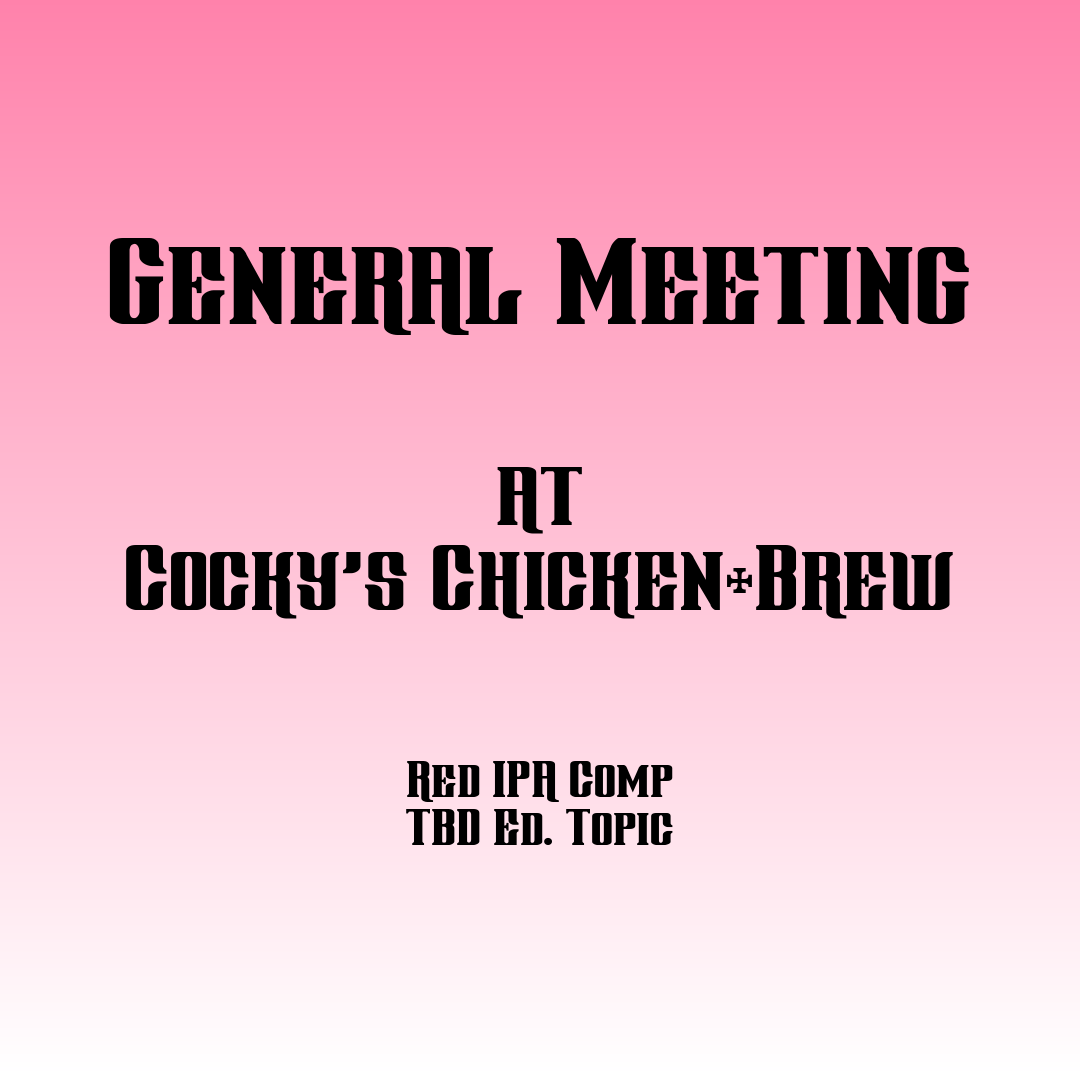
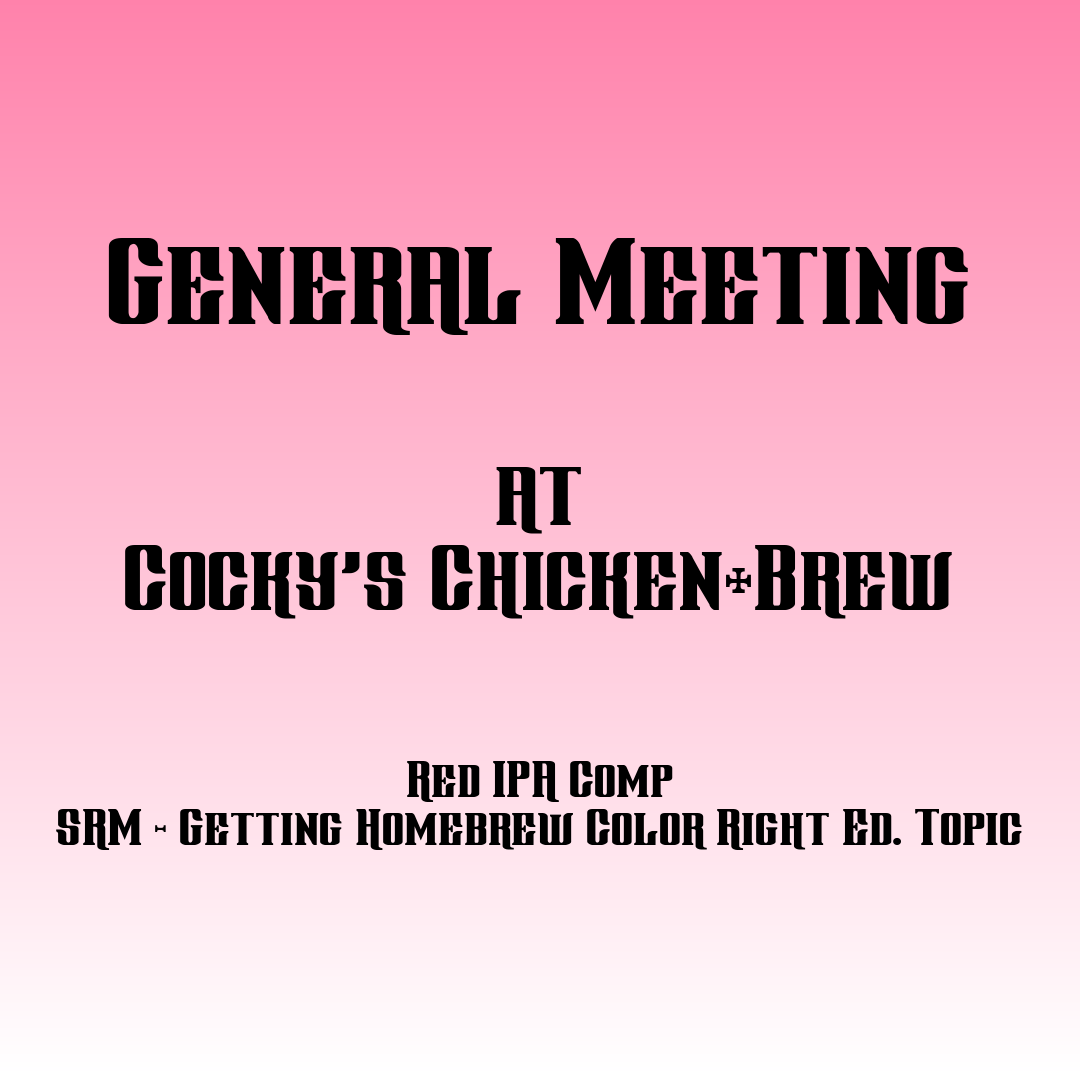
newsletter, updated events

diff --git a/site/content/posts/2025-04-news.md b/site/content/posts/2025-04-news.md
@@ -1,0 +1,28 @@
+---
+title: April 2025 Newsletter
+date: 2025-04-04
+type: newsletter
+author: bakerag
+---
+
+Spring is about to be sprung after some crazy days!
+
+We have some fun stuff coming up. Next week, we have two off-flavor and judging sessions,
+these member-only sessions are a good opportunity to enhance your tasting and judging skills.
+[Learn more and RSVP](https://forms.gle/qHghET69wkJhysdh8)
+
+The annual Lazy G competition is fast approaching, there's still a little time to
+brew! Check the competition page for deatils - [Lazy G Competition](/lazy-g-club-only-competition).
+
+Big Brew is an annual event for homebrew clubs around the country to get together and make some
+beer. Our event is at the Wren House Prairie Patio the day after the official day. It's always fun
+and a great time for prospective members to get to know the club in a very
+casual setting. [Learn more and RSVP](/events/2025-05-brewday)
+
+Our famous camping trip [Horseshoes & Homebrews](/events/2025-07-horseshoesAndHomebrews) is scheduled for July 24-27, it's a hoot, you don't
+want to miss it... we might even play horseshoes this year!
+
+Ghosts of the West, a new homebrew competition hosted by our club, is starting to take shape. The
+website is up, with information about dates,and amazing art from Mike! [Ghosts of the West](/ghosts-of-the-west).
+We're going to need a lot of help with stewards, judges, and more!
+

diff --git a/site/content/events/2025-04-gm/index.md b/site/content/events/2025-04-gm/index.md
@@ -1,6 +1,6 @@
 ---
 title: April General Meeting
-date: 2025-02-14T13:09:03Z
+date: 2025-04-06T16:02:32Z
 startDate: 2025-04-17 18:00:00 -0700 MST
 endDate:  2025-04-17 20:00:00 -0700 MST
 location: Cocky's Chicken+Brew
@@ -13,7 +13,7 @@ General Meeting
 April 17 6pm  
 Cocky's Chicken+Brew  
 Gauntlet: Red IPA  
-Ed Topic: TBD  
+Ed Topic: SRM - Getting Homebrew Color Right  
   
 Notes:  
   

diff --git a/site/content/events/2025-05-gm/index.md b/site/content/events/2025-05-gm/index.md
@@ -1,6 +1,6 @@
 ---
 title: May General Meeting
-date: 2025-02-14T13:09:09Z
+date: 2025-04-06T16:02:38Z
 startDate: 2025-05-15 18:00:00 -0700 MST
 endDate:  2025-05-15 20:00:00 -0700 MST
 location: Cocky's Chicken+Brew
@@ -13,7 +13,7 @@ General Meeting
 May 15 6pm  
 Cocky's Chicken+Brew  
 Gauntlet: Flower Beer  
-Ed Topic: TBD  
+Ed Topic: Sensory Training - Phenolic  
   
 Notes:  
   

diff --git a/site/content/events/2025-07-horseshoesAndHomebrews/index.md b/site/content/events/2025-07-horseshoesAndHomebrews/index.md
@@ -1,0 +1,13 @@
+---
+title: Horseshoes & Homebrews 2025
+date: 2025-04-06T13:09:03Z
+startDate: 2025-07-24 10:00:00 -0700 MST
+endDate:  2025-07-27 12:00:00 -0700 MST
+event: true
+---
+
+Camping, homebrew, games, what could be better!
+
+Come for the day on Saturday, or bring a tent or RV and camp a few days, you won't regret it.
+
+Details to be shared by email to members.

diff --git a/site/content/events/2025-05-brewday/index.md b/site/content/events/2025-05-brewday/index.md
@@ -5,6 +5,7 @@ startDate: 2025-05-04 10:00:00 -0700 MST
 endDate:  2025-05-04 16:00:00 -0700 MST
 location: Wren House Prairie Patio
 event: true
+rsvp: https://forms.gle/QPXwUFDLaEnjkLWq5
 ---
 
 ![image](NHBD25.png)
